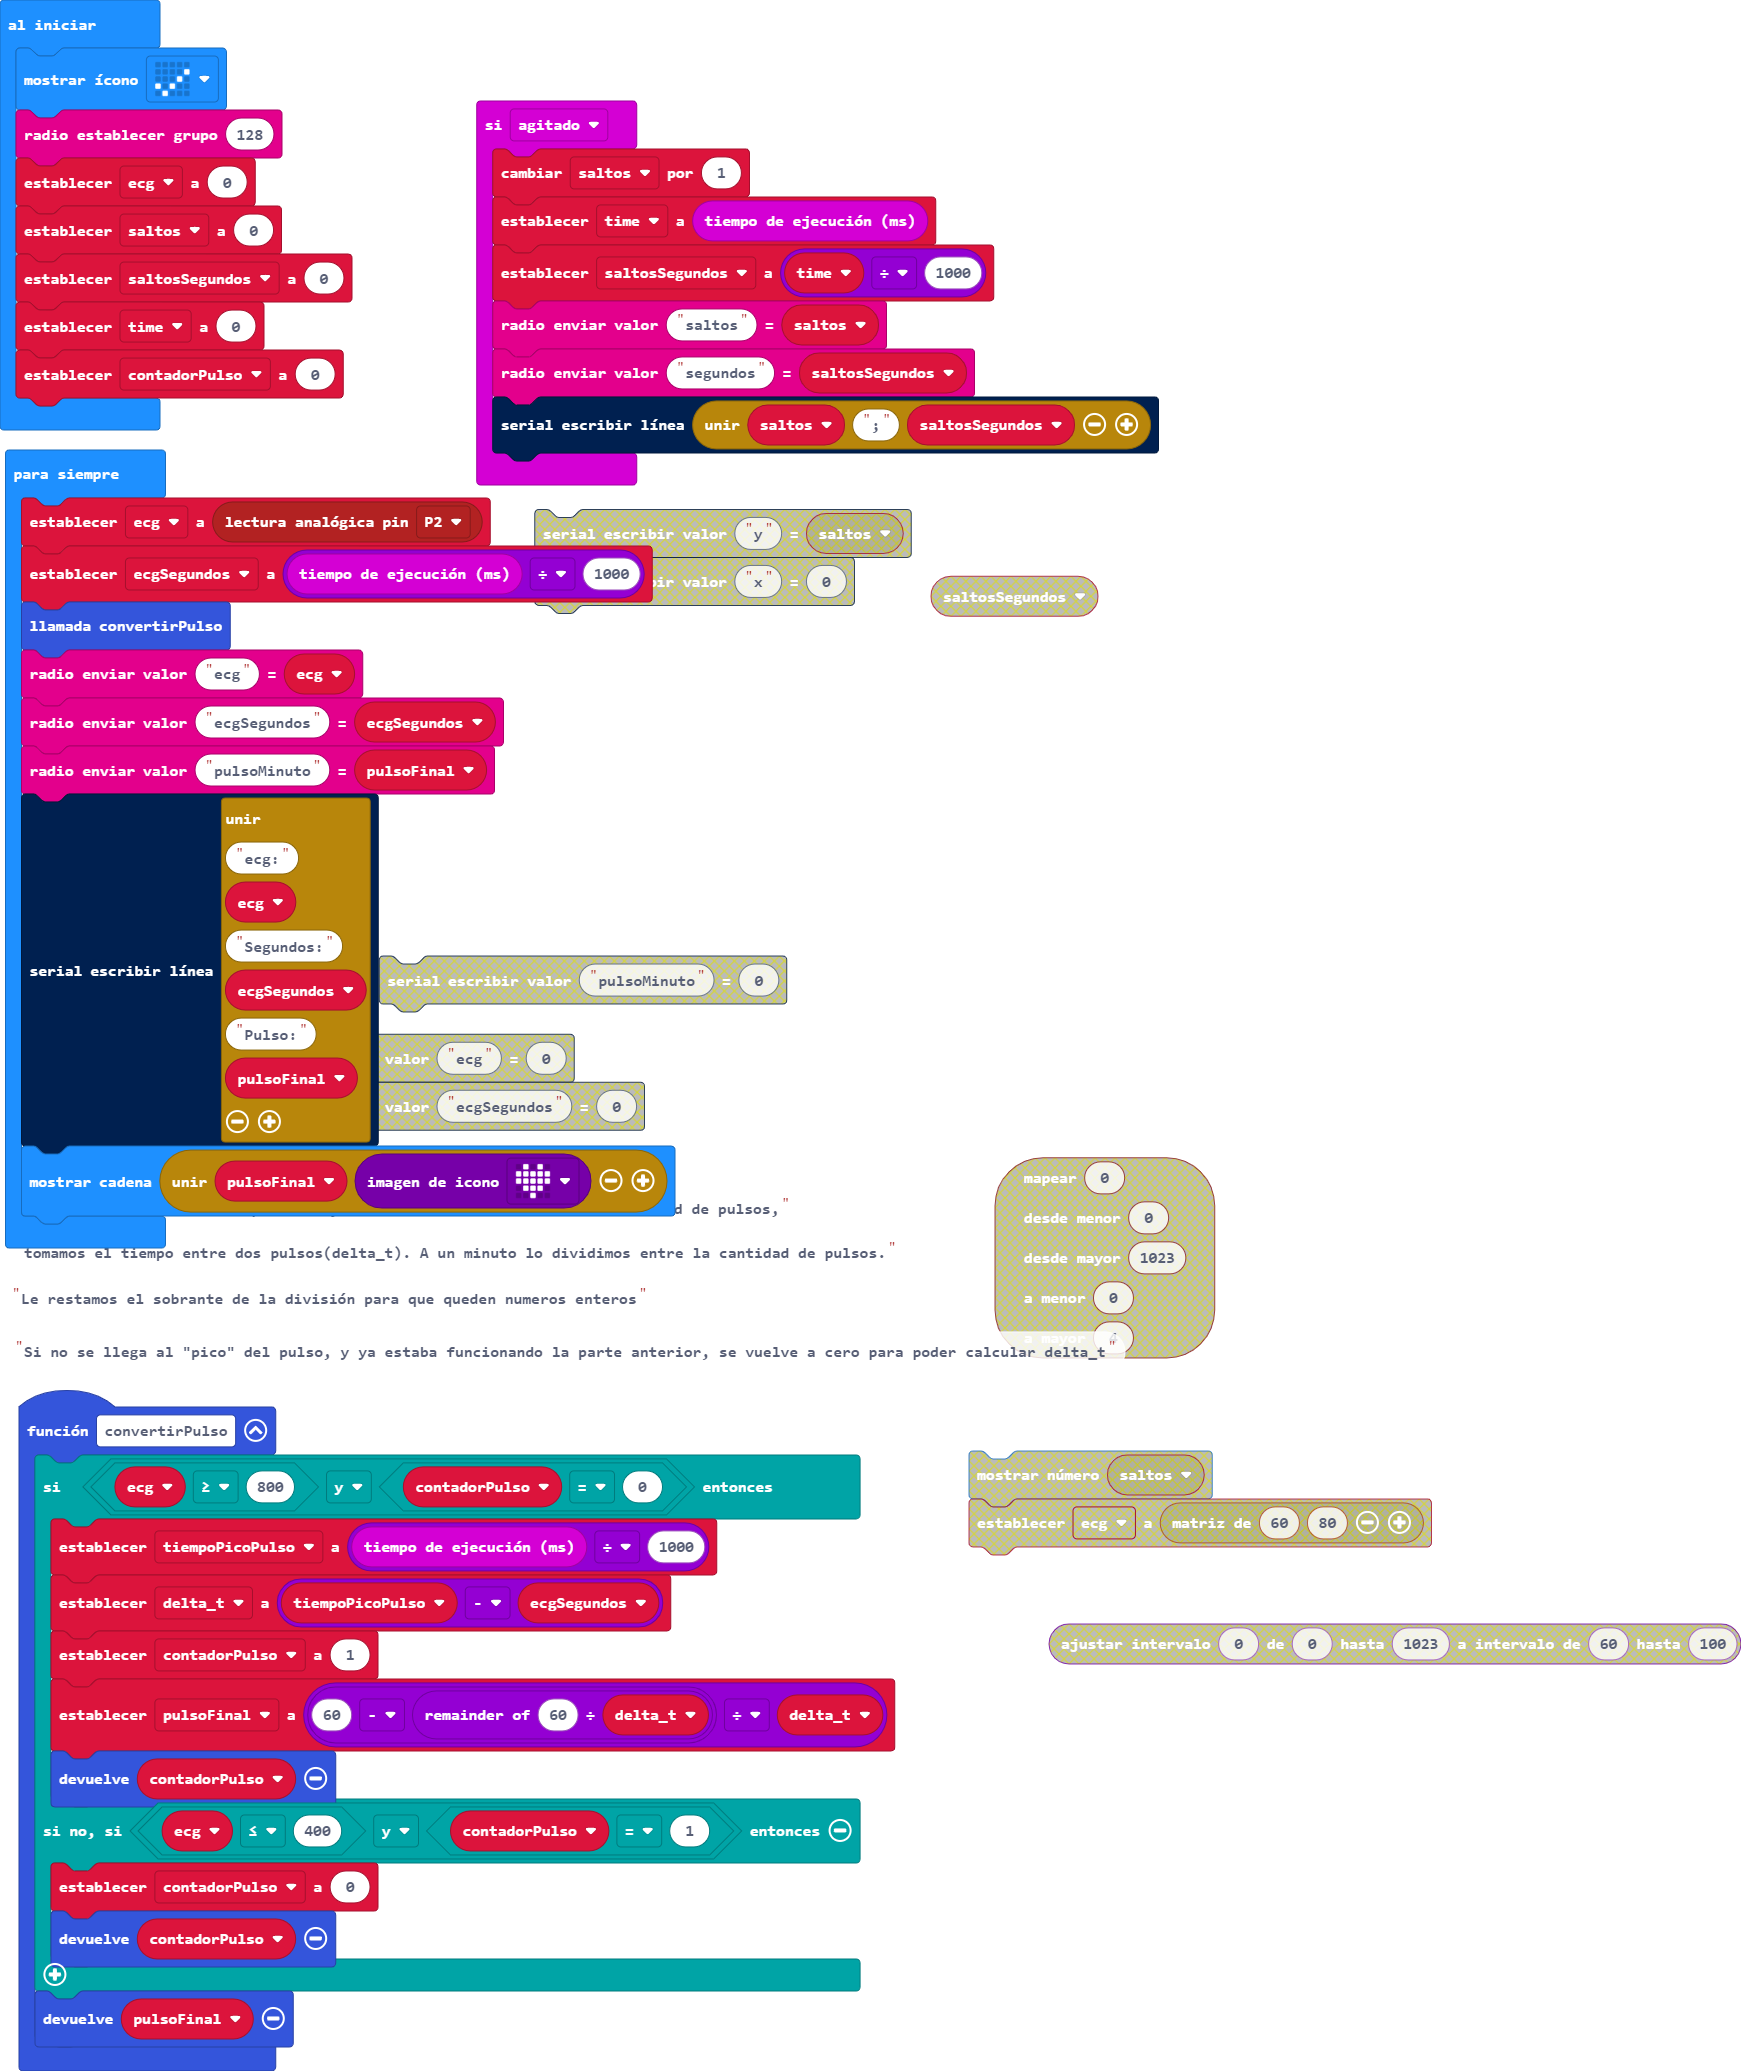
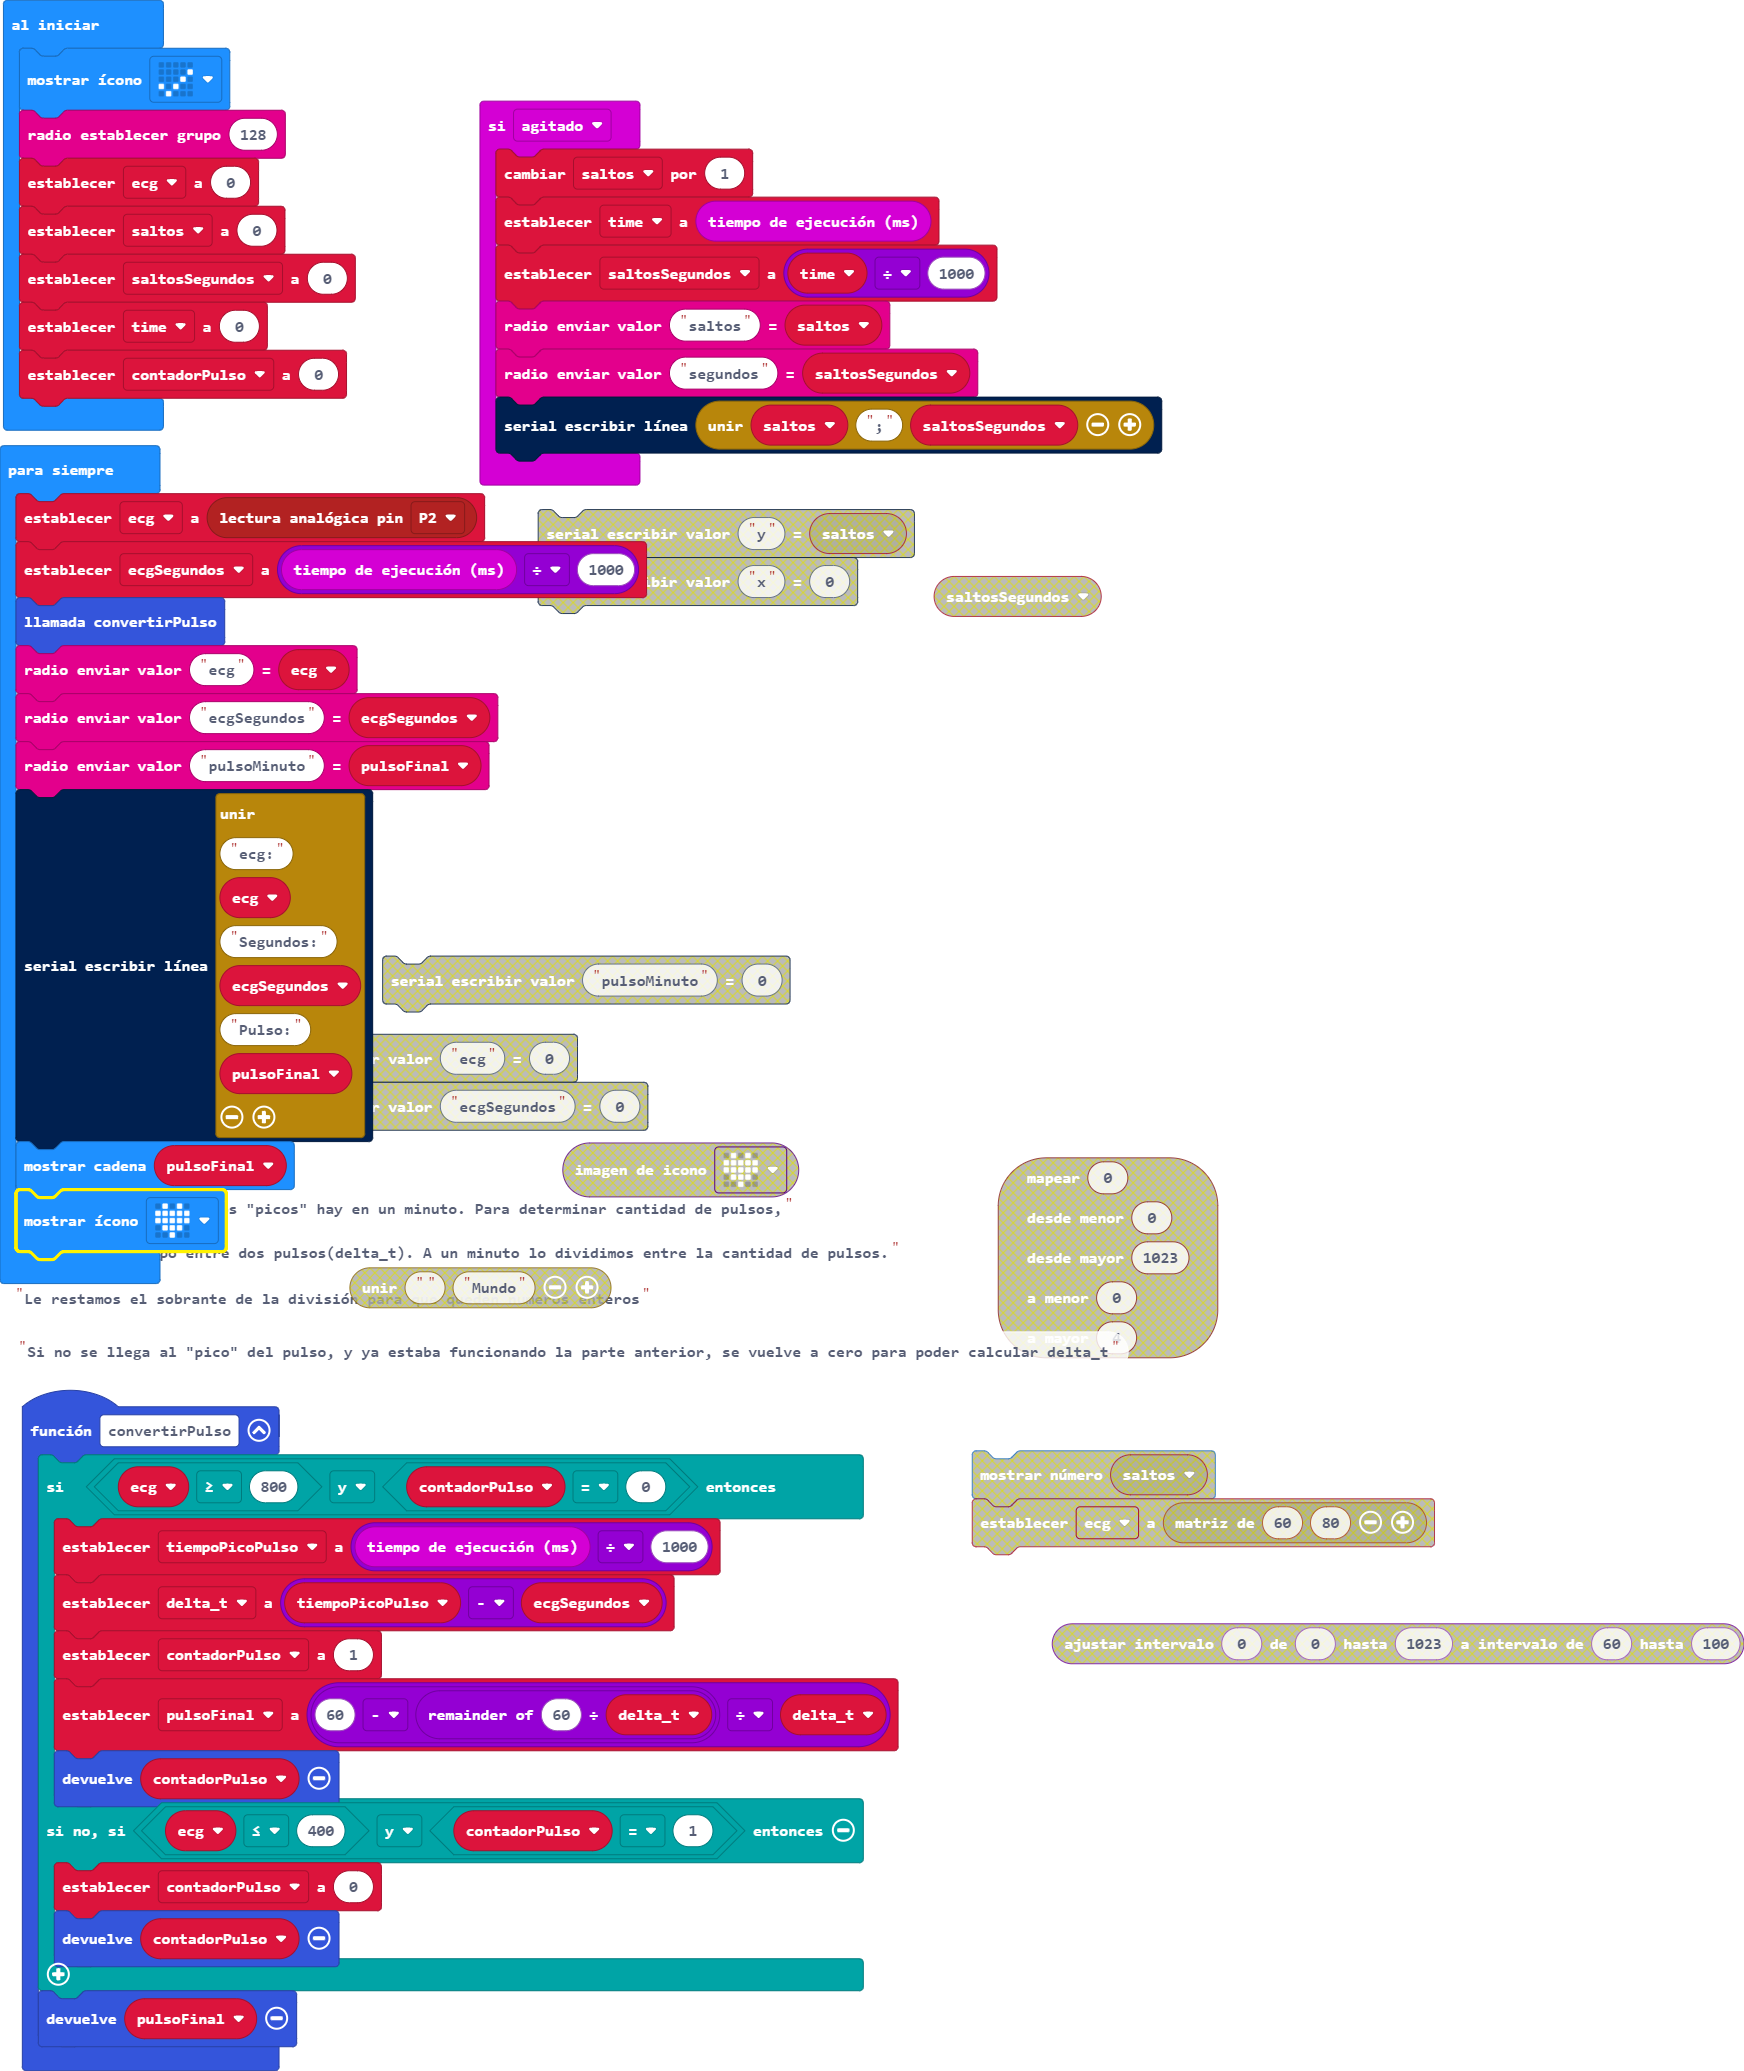
Actualizar main.blocks, main.ts

diff --git a/main.ts b/main.ts
@@ -43,5 +43,6 @@ basic.forever(function () {
     radio.sendValue("ecgSegundos", ecgSegundos)
     radio.sendValue("pulsoMinuto", pulsoFinal)
     serial.writeLine("ecg:" + ecg + "Segundos:" + ecgSegundos + "Pulso:" + pulsoFinal)
-    basic.showString("" + pulsoFinal + images.iconImage(IconNames.Heart))
+    basic.showString("" + (pulsoFinal))
+    basic.showIcon(IconNames.Heart)
 })
